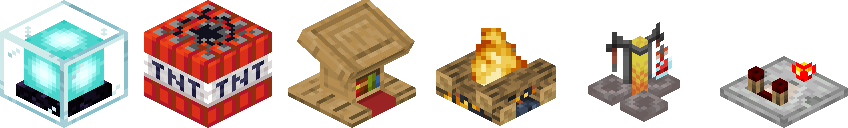
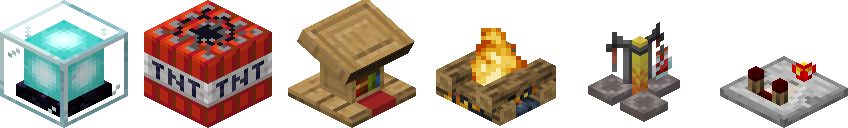
add directional light shading

diff --git a/rasterizer.py b/rasterizer.py
@@ -10,6 +10,9 @@ class Rasterizer(object):
         self.bgcolor = (26, 26, 26, 0)
         self.texture_dimensions = dimensions
 
+        self.light_vector  = numpy.array([ -0.8, +1.0, +0.7 ])
+        #self.light_vector /= numpy.linalg.norm(self.light_vector)
+
         self.projection = numpy.array([
             [ +1/2,    0, +1/2 ],
             [ -1/4, -1/2, +1/4 ],
@@ -69,6 +72,10 @@ class Rasterizer(object):
             numpy.matmul(self.projection, point) + shift for point in points
         ]])
 
+        normal  = numpy.cross(points[2] - points[0], points[1] - points[0])
+        normal /= numpy.linalg.norm(normal)
+        light = numpy.clip(normal.dot(self.light_vector), 0, 1)
+
         def edgefunc(v0, v1, p):
             px = p[:, 1]
             py = p[:, 0]
@@ -109,7 +116,7 @@ class Rasterizer(object):
         mask = mask & (z > zbuffer) # only foreground
         mask = mask & (tex[:,3] > 0) # only opaque pixels
         
-        image[mask] = tex[mask]
+        image[mask] = tex[mask] * light
         image[:,3][mask] = 255
         zbuffer[mask] = z[mask]
 
